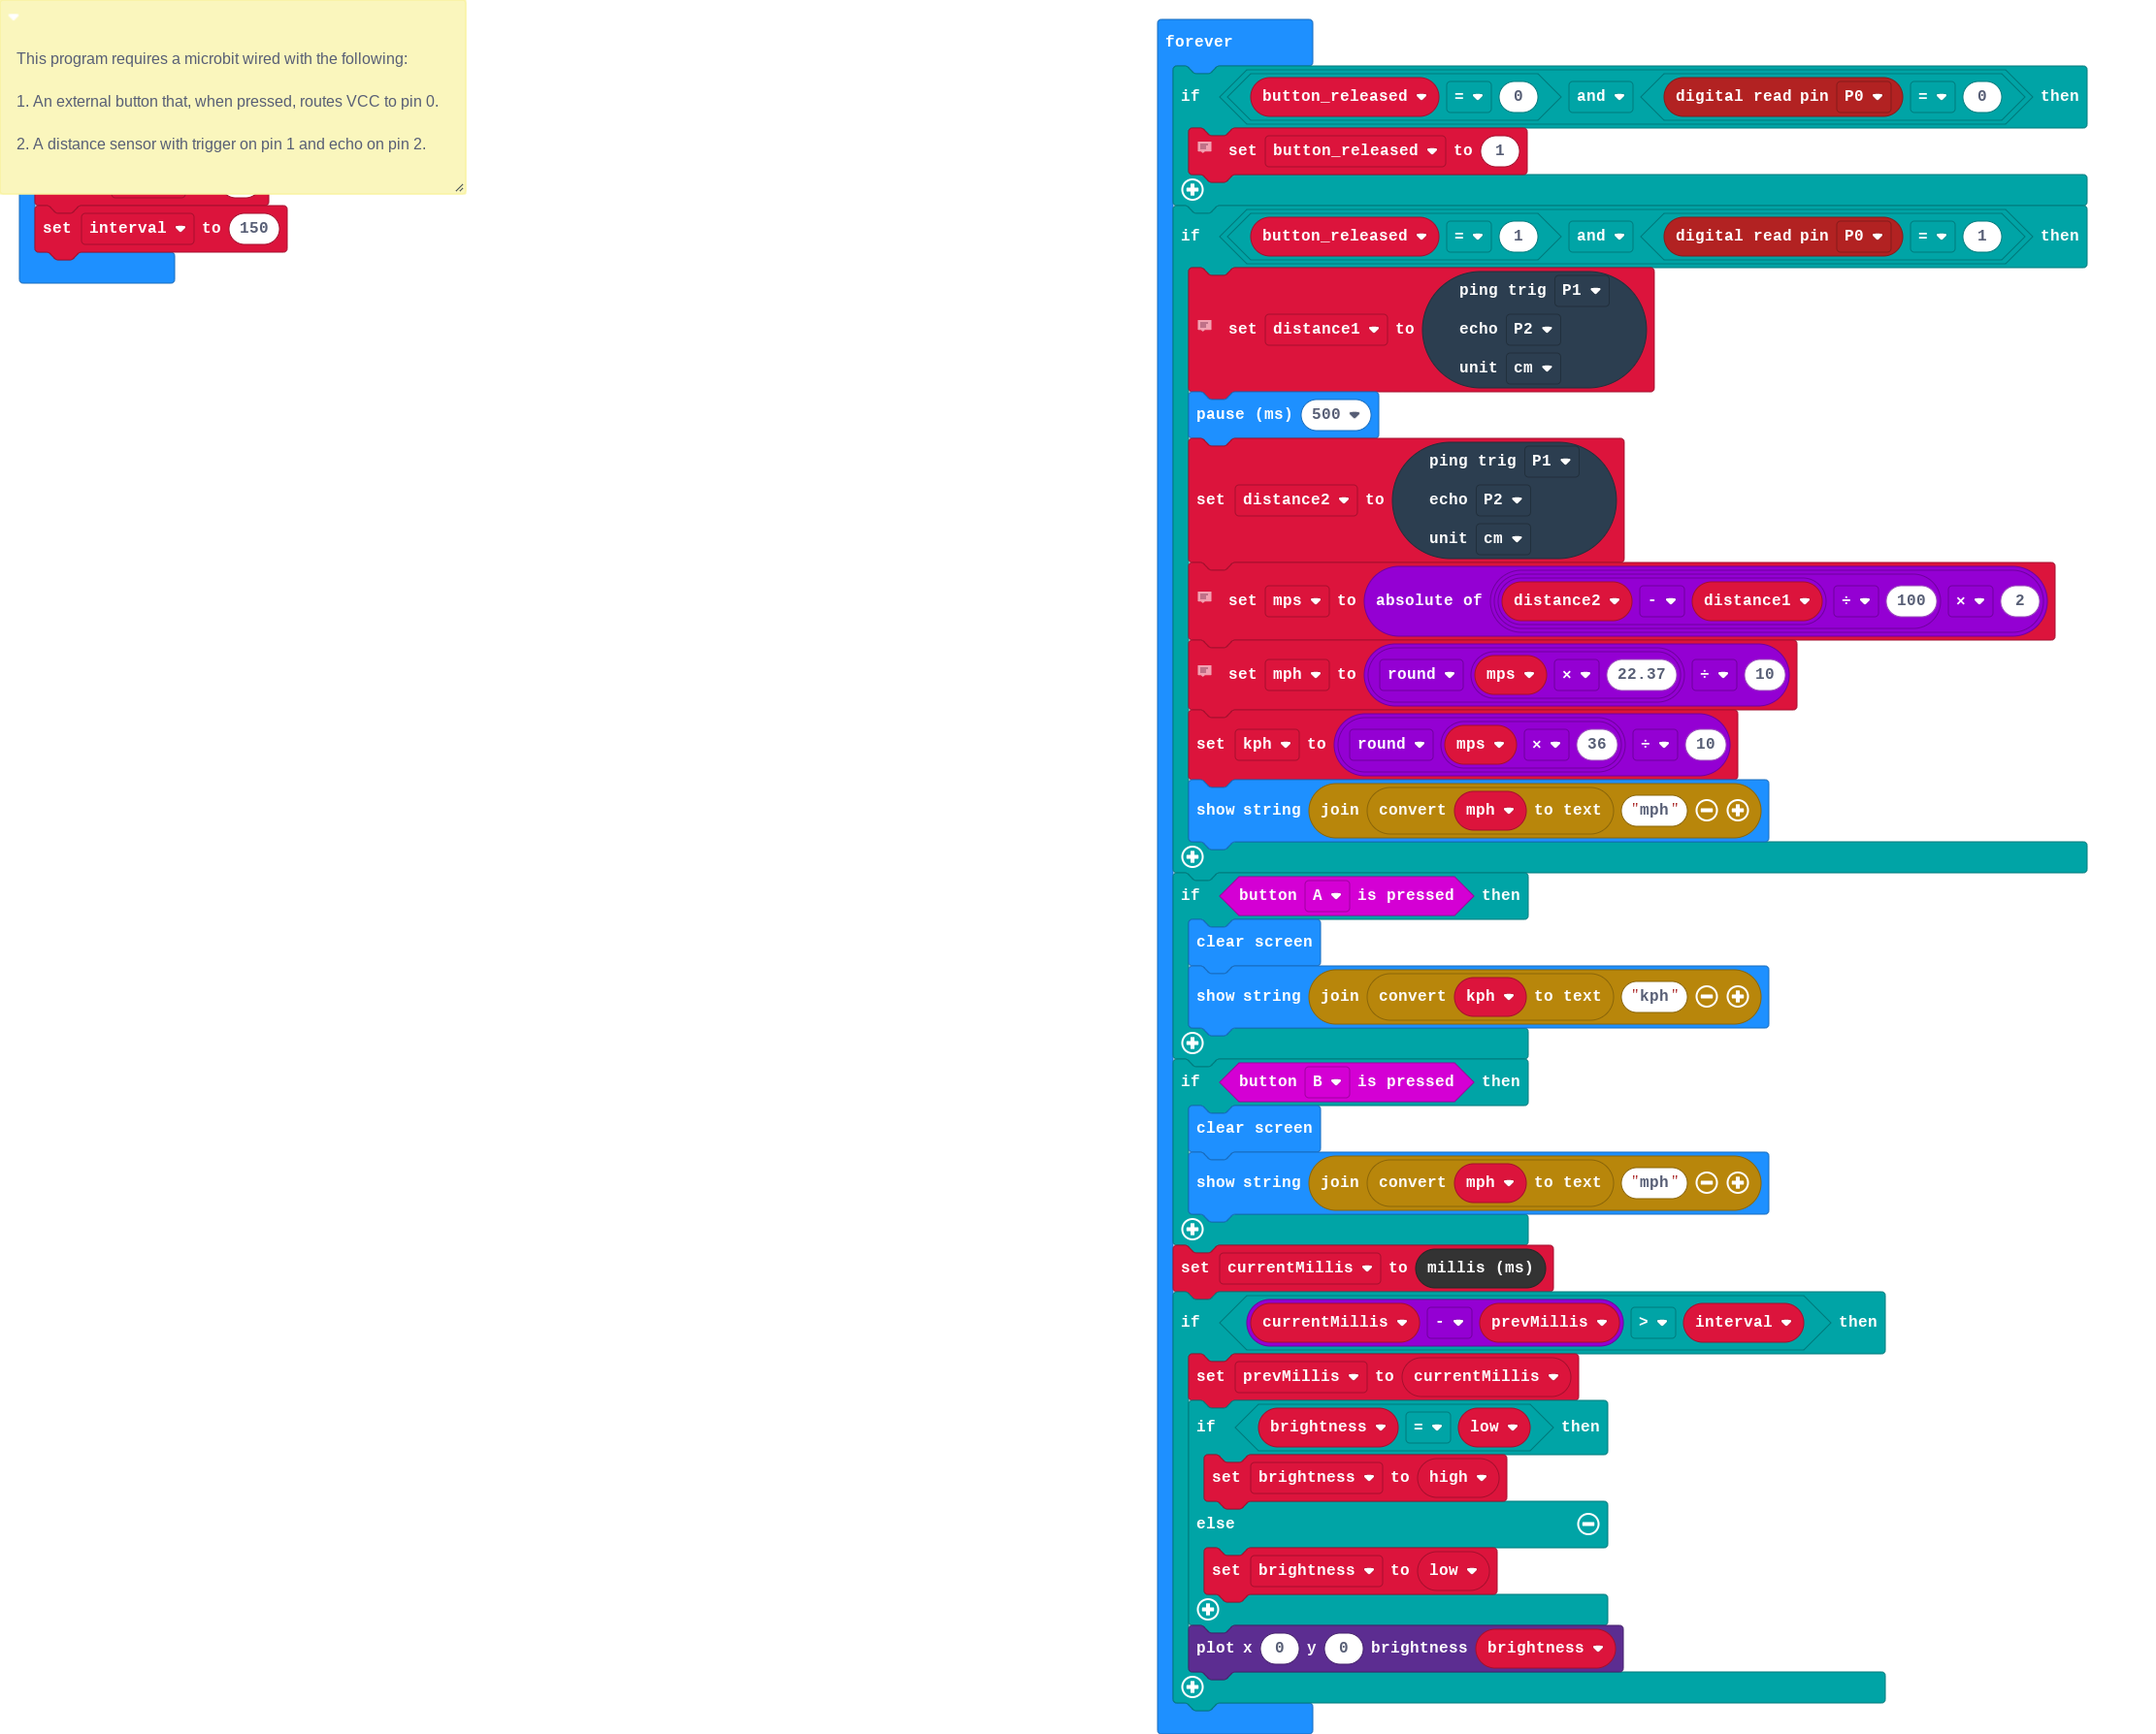
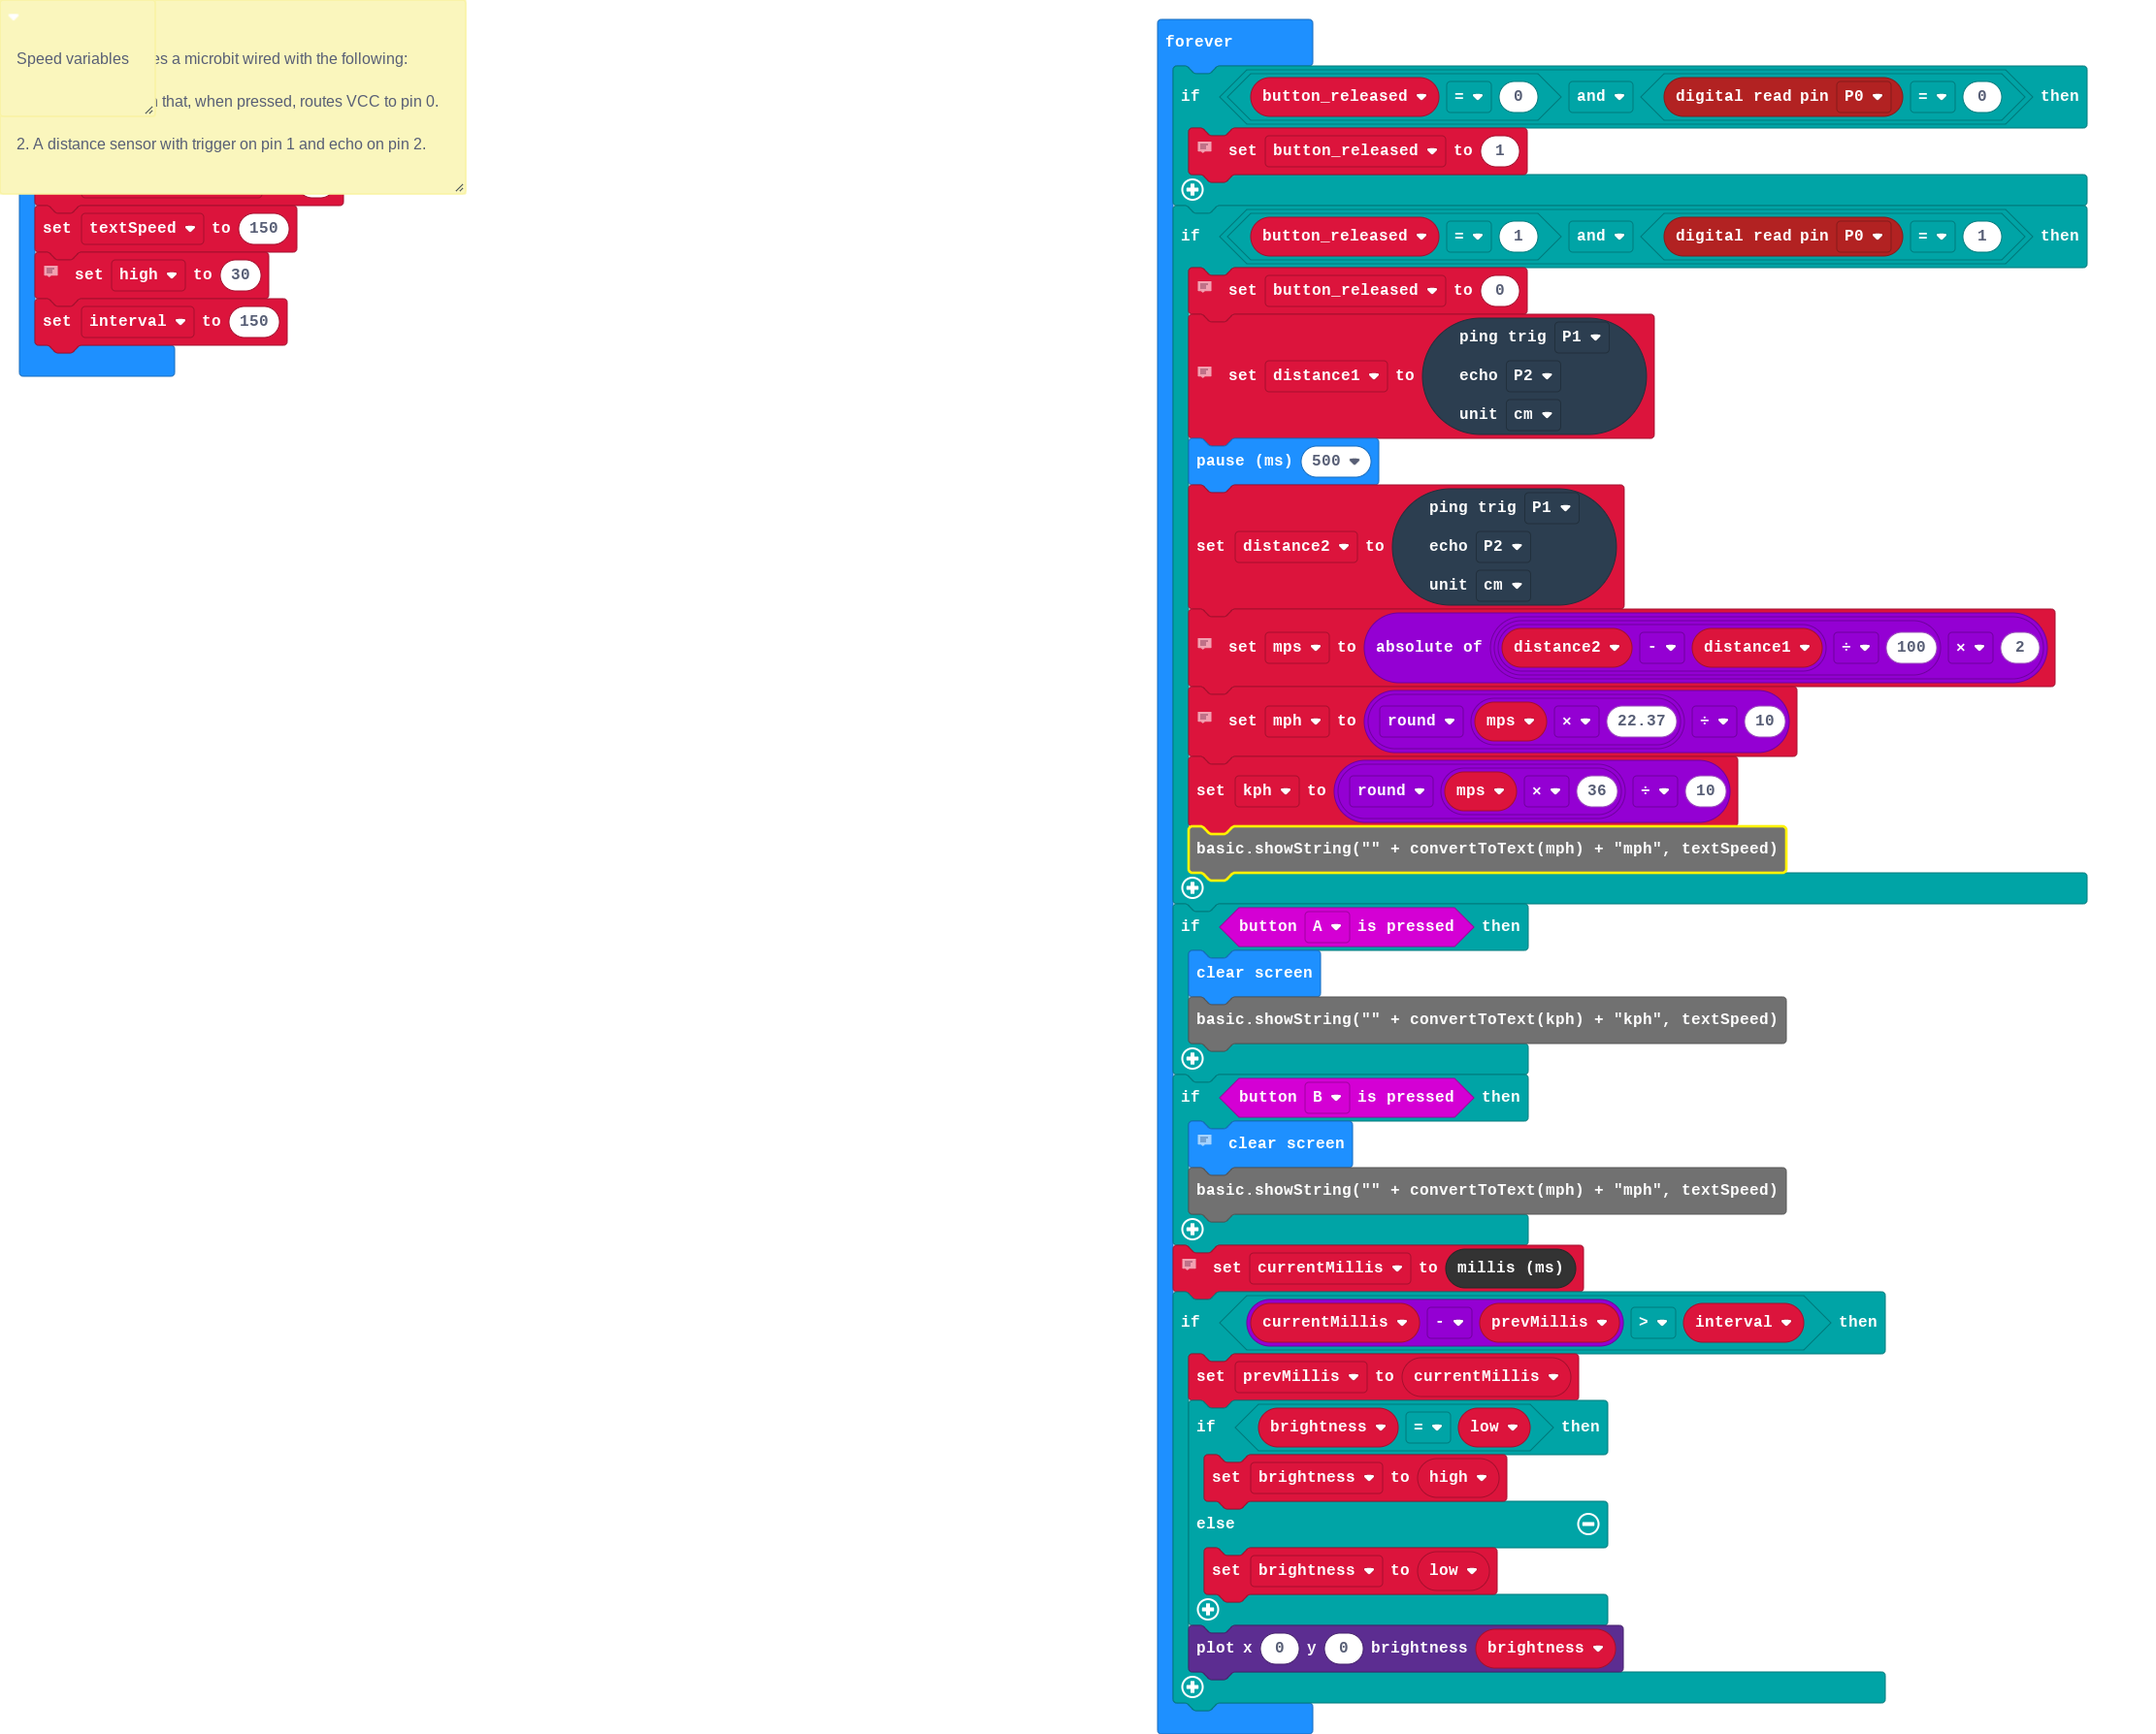
Increased text scroll speed.

Changed region(s): [[0.5279, 0.1538, 0.9937, 0.769], [0.0, 0.0923, 0.1553, 0.2153], [0.0, 0.0308, 0.0621, 0.0615]]

diff --git a/main.ts b/main.ts
@@ -5,23 +5,22 @@
  * 
  * 2. A distance sensor with trigger on pin 1 and echo on pin 2.
  */
-
-// Speed variables
-let kph = 0
-let mph = 0
-let mps = 0
-let distance2 = 0
-let distance1 = 0
-let button_released = 1
-
-// Blink variables
-let high = 30
-let low = 0
-let interval = 150
+/**
+ * Speed variables
+ */
 let brightness = 0
 let prevMillis = 0
 let currentMillis = 0
-
+let mps = 0
+let distance2 = 0
+let distance1 = 0
+let mph = 0
+let kph = 0
+let button_released = 1
+let textSpeed = 150
+// Blink variables
+let high = 30
+let interval = 150
 basic.forever(function () {
     if (button_released == 0 && pins.digitalReadPin(DigitalPin.P0) == 0) {
         // Button must be released before taking another reading
@@ -30,7 +29,7 @@ basic.forever(function () {
     if (button_released == 1 && pins.digitalReadPin(DigitalPin.P0) == 1) {
         // Main button pushed.
         button_released = 0
-        //  Take two distance readings.
+        // Take two distance readings.
         distance1 = sonar.ping(
         DigitalPin.P1,
         DigitalPin.P2,
@@ -47,23 +46,22 @@ basic.forever(function () {
         // Calculate speed and display it.
         mph = Math.round(mps * 22.37) / 10
         kph = Math.round(mps * 36) / 10
-        basic.showString("" + convertToText(mph) + "mph")
+        basic.showString("" + convertToText(mph) + "mph", textSpeed)
     }
     if (input.buttonIsPressed(Button.A)) {
         basic.clearScreen()
-        // Button A shows kilometers per hour
-        basic.showString("" + convertToText(kph) + "kph")
+        basic.showString("" + convertToText(kph) + "kph", textSpeed)
     }
     if (input.buttonIsPressed(Button.B)) {
         // Button B shows miles per hour again
         basic.clearScreen()
-        basic.showString("" + convertToText(mph) + "mph")
+        basic.showString("" + convertToText(mph) + "mph", textSpeed)
     }
-
     // Blink. Just to show that the device is on,
     // so we don't run down the battery.
     currentMillis = control.millis()
     if (currentMillis - prevMillis > interval) {
+        let low = 0
         prevMillis = currentMillis
         if (brightness == low) {
             brightness = high
